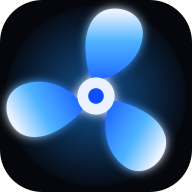
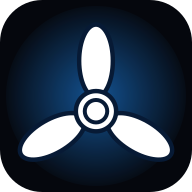
Логотип как у клуба: векторная копия оригинального «ОТ ✇ ВИНТА»
Буквы и пропеллер с овальными лопастями перестроены по замерам
оригинального логотипа; фавиконки и OG-картинка обновлены.

diff --git a/src/lib/logo.ts b/src/lib/logo.ts
@@ -1,0 +1,46 @@
+/**
+ * Логотип клуба «От винта» в векторе — повторяет оригинальный логотип клуба
+ * (images/logo.png старого сайта): широкие скруглённые буквы, белый трёхлопастной
+ * пропеллер между «ОТ» и «ВИНТА», слоган разреженным капсом.
+ * Сгенерировано по замерам оригинала. Высота букв = 40 единиц.
+ */
+
+/** Буквы «ОТ ВИНТА» (fill-rule: nonzero) */
+export const LOGO_LETTERS = [
+  'M12 0L42.2 0A12 12 0 0 1 54.2 12L54.2 28A12 12 0 0 1 42.2 40L12 40A12 12 0 0 1 0 28L0 12A12 12 0 0 1 12 0ZM14 8A4 4 0 0 0 10 12L10 28A4 4 0 0 0 14 32L40.2 32A4 4 0 0 0 44.2 28L44.2 12A4 4 0 0 0 40.2 8Z', // О
+  'M61.7 0L113.9 0A1.5 1.5 0 0 1 115.4 1.5L115.4 6.5A1.5 1.5 0 0 1 113.9 8L61.7 8A1.5 1.5 0 0 1 60.2 6.5L60.2 1.5A1.5 1.5 0 0 1 61.7 0ZM82.8 0L92.8 0L92.8 0L92.8 38.5A1.5 1.5 0 0 1 91.3 40L84.3 40A1.5 1.5 0 0 1 82.8 38.5L82.8 0L82.8 0Z', // Т1
+  'M196.1 0L204.6 0L204.6 0L204.6 40L204.6 40L196.1 40A1.5 1.5 0 0 1 194.6 38.5L194.6 1.5A1.5 1.5 0 0 1 196.1 0ZM196.1 0L235.8 0A10 10 0 0 1 245.8 10L245.8 13.1A10 10 0 0 1 235.8 23.1L194.6 23.1L194.6 23.1L194.6 1.5A1.5 1.5 0 0 1 196.1 0ZM194.6 17.1L235.8 17.1A10 10 0 0 1 245.8 27.1L245.8 30A10 10 0 0 1 235.8 40L196.1 40A1.5 1.5 0 0 1 194.6 38.5L194.6 17.1L194.6 17.1ZM207.1 8A2.5 2.5 0 0 0 204.6 10.5L204.6 14.6A2.5 2.5 0 0 0 207.1 17.1L233.4 17.1A2.5 2.5 0 0 0 235.9 14.6L235.9 10.5A2.5 2.5 0 0 0 233.4 8ZM207.1 23.1A2.5 2.5 0 0 0 204.6 25.6L204.6 29.6A2.5 2.5 0 0 0 207.1 32.1L233.4 32.1A2.5 2.5 0 0 0 235.9 29.6L235.9 25.6A2.5 2.5 0 0 0 233.4 23.1Z', // В
+  'M256.3 0L263.3 0A1.5 1.5 0 0 1 264.8 1.5L264.8 38.5A1.5 1.5 0 0 1 263.3 40L256.3 40A1.5 1.5 0 0 1 254.8 38.5L254.8 1.5A1.5 1.5 0 0 1 256.3 0ZM299.5 0L306.5 0A1.5 1.5 0 0 1 308 1.5L308 38.5A1.5 1.5 0 0 1 306.5 40L299.5 40A1.5 1.5 0 0 1 298 38.5L298 1.5A1.5 1.5 0 0 1 299.5 0ZM258.25 40L270.25 40L304.25 0L292.25 0Z', // И
+  'M318.5 0L325.5 0A1.5 1.5 0 0 1 327 1.5L327 38.5A1.5 1.5 0 0 1 325.5 40L318.5 40A1.5 1.5 0 0 1 317 38.5L317 1.5A1.5 1.5 0 0 1 318.5 0ZM361.7 0L368.7 0A1.5 1.5 0 0 1 370.2 1.5L370.2 38.5A1.5 1.5 0 0 1 368.7 40L361.7 40A1.5 1.5 0 0 1 360.2 38.5L360.2 1.5A1.5 1.5 0 0 1 361.7 0ZM326.5 16L360.7 16L360.7 16L360.7 24L360.7 24L326.5 24L326.5 24L326.5 16L326.5 16Z', // Н
+  'M377.7 0L429.9 0A1.5 1.5 0 0 1 431.4 1.5L431.4 6.5A1.5 1.5 0 0 1 429.9 8L377.7 8A1.5 1.5 0 0 1 376.2 6.5L376.2 1.5A1.5 1.5 0 0 1 377.7 0ZM398.8 0L408.8 0L408.8 0L408.8 38.5A1.5 1.5 0 0 1 407.3 40L400.3 40A1.5 1.5 0 0 1 398.8 38.5L398.8 0L398.8 0Z', // Т2
+  'M440.4 0L476.6 0A10 10 0 0 1 486.6 10L486.6 8L486.6 8L436.4 8L436.4 8L436.4 4A4 4 0 0 1 440.4 0ZM476.6 0L476.6 0A10 10 0 0 1 486.6 10L486.6 38.5A1.5 1.5 0 0 1 485.1 40L476.6 40L476.6 40L476.6 0L476.6 0ZM445.4 17.1L486.6 17.1L486.6 17.1L486.6 38.5A1.5 1.5 0 0 1 485.1 40L445.4 40A9 9 0 0 1 436.4 31L436.4 26.1A9 9 0 0 1 445.4 17.1ZM448.9 23.1A2.5 2.5 0 0 0 446.4 25.6L446.4 29.6A2.5 2.5 0 0 0 448.9 32.1L474.1 32.1A2.5 2.5 0 0 0 476.6 29.6L476.6 25.6A2.5 2.5 0 0 0 474.1 23.1Z', // а
+];
+
+/** Ширина вордмарка в единицах */
+export const LOGO_WIDTH = 486.6;
+
+/** Пропеллер: центр втулки, вылет лопасти, полуоси овала лопасти, радиусы колец втулки */
+export const PROP = { cx: 146.4, cy: 19.5, reach: 37.0, a: 15.5, b: 7.2, hubR: 8.6, hubR2: 4.8 };
+
+/** Слоган «НАВСТРЕЧУ ПРИКЛЮЧЕНИЯМ» — контуры букв (Unbounded 700), верх 53.5, высота 9.6 */
+export const LOGO_SLOGAN = 'M61.26480000000002 53.5H63.91440000000002V63.1H61.26480000000002ZM68.81680000000001 53.5H71.47920000000002V63.1H68.81680000000001ZM62.74960000000002 57.0456H69.91760000000002V59.400800000000004H62.74960000000002ZM80.516 61.2568V59.1192H87.13360000000002V61.2568ZM85.62320000000001 53.5 89.98800000000001 63.1H87.15920000000001L83.4984 54.626400000000004H84.2664L80.59280000000001 63.1H77.76400000000001L82.12880000000001 53.5ZM102.77520000000001 58.4024 102.99280000000002 57.9032Q104.10640000000002 57.9288 104.82960000000003 58.2424Q105.55280000000002 58.556000000000004 105.91120000000001 59.11280000000001Q106.26960000000001 59.6696 106.26960000000001 60.3992Q106.26960000000001 61.18 105.91120000000001 61.788Q105.55280000000002 62.396 104.84240000000003 62.748000000000005Q104.13200000000002 63.1 103.06960000000002 63.1H95.97840000000002L96.72080000000001 58.172000000000004L95.97840000000002 53.5H102.81360000000002Q104.14480000000002 53.5 104.8872 54.1208Q105.62960000000001 54.741600000000005 105.62960000000001 55.842400000000005Q105.62960000000001 56.444 105.34800000000001 56.9944Q105.06640000000002 57.5448 104.44560000000001 57.9224Q103.82480000000001 58.300000000000004 102.77520000000001 58.4024ZM98.60240000000002 62.4856 97.57840000000002 61.244H102.35280000000002Q102.92880000000002 61.244 103.24880000000002 60.9624Q103.56880000000001 60.680800000000005 103.56880000000001 60.1816Q103.56880000000001 59.6824 103.22320000000002 59.381600000000006Q102.87760000000002 59.0808 102.19920000000002 59.0808H98.25680000000001V57.263200000000005H101.84080000000002Q102.30160000000002 57.263200000000005 102.61520000000002 56.988Q102.92880000000002 56.7128 102.92880000000002 56.239200000000004Q102.92880000000002 55.8552 102.66000000000003 55.6056Q102.39120000000001 55.356 101.89200000000001 55.356H97.59120000000001L98.60240000000002 54.1144L99.25520000000002 58.172000000000004ZM123.61360000000002 59.0808Q123.4728 60.348 122.7432 61.3016Q122.01360000000001 62.2552 120.82960000000001 62.78Q119.64560000000002 63.3048 118.10960000000001 63.3048Q116.43280000000001 63.3048 115.17840000000001 62.6776Q113.924 62.0504 113.22640000000001 60.92400000000001Q112.52880000000002 59.7976 112.52880000000002 58.300000000000004Q112.52880000000002 56.802400000000006 113.22640000000001 55.676Q113.924 54.5496 115.17840000000001 53.922399999999996Q116.43280000000001 53.2952 118.10960000000001 53.2952Q119.64560000000002 53.2952 120.82960000000001 53.82000000000001Q122.01360000000001 54.344800000000006 122.7432 55.2984Q123.4728 56.252 123.61360000000002 57.519200000000005H120.95120000000001Q120.82320000000001 56.9048 120.45200000000001 56.476Q120.08080000000001 56.047200000000004 119.4856 55.8168Q118.89040000000001 55.586400000000005 118.10960000000001 55.586400000000005Q117.21360000000001 55.586400000000005 116.56080000000001 55.912800000000004Q115.90800000000002 56.239200000000004 115.56240000000001 56.8472Q115.2168 57.455200000000005 115.2168 58.300000000000004Q115.2168 59.144800000000004 115.56240000000001 59.75280000000001Q115.90800000000002 60.360800000000005 116.56080000000001 60.687200000000004Q117.21360000000001 61.013600000000004 118.10960000000001 61.013600000000004Q118.89040000000001 61.013600000000004 119.4856 60.79600000000001Q120.08080000000001 60.5784 120.45200000000001 60.1432Q120.82320000000001 59.708 120.95120000000001 59.0808ZM133.2904 54.6648H135.9528V63.1H133.2904ZM129.6296 53.5H139.61360000000002V55.8552H129.6296ZM151.5176 53.5Q152.7208 53.5 153.5976 53.9096Q154.4744 54.3192 154.9352 55.068Q155.396 55.8168 155.396 56.815200000000004Q155.396 57.8008 154.9352 58.5496Q154.4744 59.2984 153.5976 59.708Q152.7208 60.1176 151.5176 60.1176H147.3576V57.9928H151.3512Q151.9912 57.9928 152.3496 57.6792Q152.708 57.3656 152.708 56.815200000000004Q152.708 56.252 152.3496 55.9384Q151.9912 55.6248 151.3512 55.6248H147.588L148.7784 54.396V63.1H146.12879999999998V53.5ZM170.1288 57.34V59.260000000000005H163.10160000000002V57.34ZM164.90640000000002 58.300000000000004 164.27920000000003 62.1528 163.204 60.949600000000004H170.55120000000002V63.1H161.6296L162.35920000000002 58.300000000000004L161.6296 53.5H170.48720000000003V55.650400000000005H163.204L164.27920000000003 54.4472ZM181.316 60.2072Q179.268 60.2072 178.1864 59.138400000000004Q177.1048 58.0696 177.1048 56.047200000000004V53.5H179.7544V55.8296Q179.7544 56.8408 180.3048 57.3528Q180.85520000000002 57.8648 181.95600000000002 57.8648Q182.596 57.8648 183.3 57.717600000000004Q184.00400000000002 57.5704 184.70800000000003 57.2888L184.8616 59.4136Q184.0936 59.7976 183.1848 60.0024Q182.276 60.2072 181.316 60.2072ZM184.3624 63.1V53.5H187.02480000000003V63.1ZM196.4456 63.1 198.17360000000002 60.092H198.21200000000002L201.96240000000003 53.5H204.84240000000003L199.3256 63.1ZM198.13520000000003 61.8072 193.33520000000001 53.5H196.26640000000003L200.01680000000002 60.028ZM229.828 53.5V63.1H227.1784V54.652L228.3688 55.8552H221.124L222.3144 54.652V63.1H219.66479999999999V53.5ZM242.38479999999998 53.5Q243.588 53.5 244.4648 53.9096Q245.3416 54.3192 245.80239999999998 55.068Q246.26319999999998 55.8168 246.26319999999998 56.815200000000004Q246.26319999999998 57.8008 245.80239999999998 58.5496Q245.3416 59.2984 244.4648 59.708Q243.588 60.1176 242.38479999999998 60.1176H238.2248V57.9928H242.2184Q242.8584 57.9928 243.21679999999998 57.6792Q243.5752 57.3656 243.5752 56.815200000000004Q243.5752 56.252 243.21679999999998 55.9384Q242.8584 55.6248 242.2184 55.6248H238.4552L239.6456 54.396V63.1H236.99599999999998V53.5ZM252.7912 63.1V53.5H255.40240000000003V61.7048L254.67280000000002 61.5384L260.1128 53.5H263.58160000000004V63.1H260.9576V54.741600000000005L261.7 54.908L256.1576 63.1ZM270.74960000000004 63.1V53.5H273.38640000000004V60.988L272.68240000000003 60.4376L278.1224 53.5H280.92560000000003L273.14320000000004 63.1ZM275.33200000000005 58.5176 277.2776 56.9048 281.0536 63.1H278.04560000000004ZM288.86159999999995 53.5H298.2824V63.1H295.61999999999995V54.652L296.8232 55.8552H290.34639999999996L291.46 54.972Q291.56239999999997 55.8168 291.60079999999994 56.5912Q291.63919999999996 57.3656 291.63919999999996 58.0568Q291.63919999999996 59.9 291.30639999999994 61.0584Q290.9736 62.2168 290.2568 62.754400000000004Q289.53999999999996 63.292 288.40079999999995 63.292Q287.9016 63.292 287.4216 63.1896Q286.9416 63.0872 286.54479999999995 62.882400000000004V60.680800000000005Q287.10799999999995 60.8984 287.5816 60.8984Q288.4136 60.8984 288.7784 60.14320000000001Q289.1432 59.388000000000005 289.1432 57.6728Q289.1432 56.8408 289.0728 55.804Q289.00239999999997 54.7672 288.86159999999995 53.5ZM314.9352 63.3048Q313.2456 63.3048 311.9784 62.6776Q310.7112 62.0504 310.0136 60.92400000000001Q309.31600000000003 59.7976 309.31600000000003 58.300000000000004Q309.31600000000003 56.802400000000006 310.0136 55.676Q310.7112 54.5496 311.9784 53.922399999999996Q313.2456 53.2952 314.9352 53.2952Q316.6376 53.2952 317.9048 53.922399999999996Q319.172 54.5496 319.8824 55.676Q320.5928 56.802400000000006 320.5928 58.300000000000004Q320.5928 59.7976 319.8824 60.92400000000001Q319.172 62.0504 317.9048 62.6776Q316.6376 63.3048 314.9352 63.3048ZM305.43760000000003 63.1V53.5H308.0872V63.1ZM306.92240000000004 59.400800000000004V57.0456H310.6856V59.400800000000004ZM314.9352 60.936800000000005Q315.8568 60.936800000000005 316.5224 60.616800000000005Q317.188 60.296800000000005 317.5464 59.7016Q317.9048 59.1064 317.9048 58.300000000000004Q317.9048 57.4808 317.5464 56.892Q317.188 56.303200000000004 316.5224 55.983200000000004Q315.8568 55.6632 314.9352 55.6632Q314.0264 55.6632 313.36080000000004 55.983200000000004Q312.6952 56.303200000000004 312.33680000000004 56.892Q311.9784 57.4808 311.9784 58.300000000000004Q311.9784 59.1064 312.33680000000004 59.7016Q312.6952 60.296800000000005 313.36080000000004 60.616800000000005Q314.0264 60.936800000000005 314.9352 60.936800000000005ZM331.19120000000004 60.2072Q329.14320000000004 60.2072 328.0616 59.138400000000004Q326.98 58.0696 326.98 56.047200000000004V53.5H329.62960000000004V55.8296Q329.62960000000004 56.8408 330.18000000000006 57.3528Q330.73040000000003 57.8648 331.8312 57.8648Q332.4712 57.8648 333.1752 57.717600000000004Q333.8792 57.5704 334.58320000000003 57.2888L334.7368 59.4136Q333.96880000000004 59.7976 333.06000000000006 60.0024Q332.1512 60.2072 331.19120000000004 60.2072ZM334.23760000000004 63.1V53.5H336.90000000000003V63.1ZM352.26 57.34V59.260000000000005H345.2328V57.34ZM347.0376 58.300000000000004 346.4104 62.1528 345.3352 60.949600000000004H352.6824V63.1H343.7608L344.4904 58.300000000000004L343.7608 53.5H352.6184V55.650400000000005H345.3352L346.4104 54.4472ZM359.5944 53.5H362.24399999999997V63.1H359.5944ZM367.14639999999997 53.5H369.8088V63.1H367.14639999999997ZM361.0792 57.0456H368.2472V59.400800000000004H361.0792ZM376.9768 63.1V53.5H379.588V61.7048L378.8584 61.5384L384.2984 53.5H387.7672V63.1H385.14320000000004V54.741600000000005L385.8856 54.908L380.3432 63.1ZM402.308 57.7624V59.644000000000005H398.3016L398.2888 59.592800000000004Q397.188 59.592800000000004 396.3624 59.2216Q395.53679999999997 58.8504 395.0824 58.172Q394.628 57.4936 394.628 56.5848Q394.628 55.650400000000005 395.0824 54.9656Q395.53679999999997 54.2808 396.3624 53.8904Q397.188 53.5 398.2888 53.5H404.1512V63.1H401.48879999999997V54.204L402.6792 55.394400000000005H398.6728Q398.02 55.394400000000005 397.6552 55.708Q397.2904 56.0216 397.2904 56.5848Q397.2904 57.135200000000005 397.6552 57.448800000000006Q398.02 57.7624 398.6728 57.7624ZM400.7208 58.6072 397.444 63.1H394.372L397.7512 58.6072ZM425.3352 53.5V63.1H422.81359999999995V54.4472L423.3768 54.5112L419.66479999999996 63.1H416.97679999999997L413.25199999999995 54.5368L413.828 54.47280000000001V63.1H411.3064V53.5H415.4024L418.8456 61.7432H417.8216L421.2392 53.5Z';
+
+/** Границы по вертикали */
+export const LOGO_TOP = -19.5;
+export const LOGO_BOTTOM_COMPACT = 46.48;
+export const LOGO_BOTTOM_FULL = 65.6;
+
+/** Лопасть: овал, ось направлена от центра втулки (угол 0 — вверх) */
+export const blade = (angle: number, p = PROP): { cx: number; cy: number; rx: number; ry: number; rotate: string } => {
+  const d = p.reach - p.a;
+  const rad = (angle * Math.PI) / 180;
+  return {
+    cx: p.cx + d * Math.sin(rad),
+    cy: p.cy - d * Math.cos(rad),
+    rx: p.b,
+    ry: p.a,
+    rotate: `rotate(${angle} ${p.cx + d * Math.sin(rad)} ${p.cy - d * Math.cos(rad)})`,
+  };
+};
+
+export const BLADE_ANGLES = [0, 120, 240];

diff --git a/src/lib/logo-svg.ts b/src/lib/logo-svg.ts
@@ -1,0 +1,89 @@
+/**
+ * Сборка SVG логотипа «От винта» (по оригинальному логотипу клуба).
+ * Один источник для шапки, футера, фавиконок и OG-картинки (scripts/make-assets.mjs).
+ */
+import {
+  BLADE_ANGLES,
+  LOGO_BOTTOM_COMPACT,
+  LOGO_BOTTOM_FULL,
+  LOGO_LETTERS,
+  LOGO_SLOGAN,
+  LOGO_TOP,
+  LOGO_WIDTH,
+  PROP,
+  blade,
+} from './logo.ts';
+
+export type LogoVariant = 'full' | 'compact';
+
+const OUTLINE = '#04152E';
+const PROP_OUTLINE = '#071A35';
+
+/** Пропеллер: три овальные лопасти + втулка из колец (как в оригинале) */
+export const propellerMarkup = (opts: { cx?: number; cy?: number; scale?: number; spin?: boolean } = {}): string => {
+  const p = { ...PROP, ...(opts.cx !== undefined ? { cx: opts.cx } : {}), ...(opts.cy !== undefined ? { cy: opts.cy } : {}) };
+  const blades = BLADE_ANGLES.map((a) => {
+    const b = blade(a, p);
+    return `<ellipse cx="${b.cx.toFixed(2)}" cy="${b.cy.toFixed(2)}" rx="${b.rx}" ry="${b.ry}" transform="${b.rotate}"/>`;
+  }).join('');
+  const style = opts.spin ? ` class="spin-on-hover" style="transform-box:view-box;transform-origin:${p.cx}px ${p.cy}px"` : '';
+  return `<g${style}><g fill="#FFFFFF" stroke="${PROP_OUTLINE}" stroke-width="1.9">${blades}<circle cx="${p.cx}" cy="${p.cy}" r="${p.hubR}"/><circle cx="${p.cx}" cy="${p.cy}" r="${p.hubR2}" stroke-width="1.7"/></g></g>`;
+};
+
+export interface LogoOptions {
+  variant?: LogoVariant;
+  /** уникальный префикс id (если логотипов на странице несколько) */
+  uid?: string;
+  className?: string;
+  /** подпись для скринридеров; без неё логотип декоративный */
+  title?: string;
+  spin?: boolean;
+  width?: number;
+}
+
+export const logoViewBox = (variant: LogoVariant = 'compact'): [number, number, number, number] => {
+  const pad = 7;
+  const bottom = variant === 'full' ? LOGO_BOTTOM_FULL : LOGO_BOTTOM_COMPACT;
+  return [-pad, LOGO_TOP - pad, LOGO_WIDTH + pad * 2, bottom - LOGO_TOP + pad * 2];
+};
+
+export const logoSvg = ({ variant = 'compact', uid = 'logo', className, title, spin = true, width }: LogoOptions = {}): string => {
+  const [x, y, w, h] = logoViewBox(variant);
+  const g = `${uid}-g`;
+  const fl = `${uid}-f`;
+  const fp = `${uid}-p`;
+  const a11y = title ? `role="img" aria-label="${title}"` : 'aria-hidden="true" focusable="false"';
+  const size = width ? ` width="${width}" height="${((width * h) / w).toFixed(1)}"` : '';
+  return `<svg xmlns="http://www.w3.org/2000/svg" viewBox="${x} ${y.toFixed(2)} ${w} ${h.toFixed(2)}"${size}${className ? ` class="${className}"` : ''} ${a11y}>${title ? `<title>${title}</title>` : ''}
+<defs>
+<linearGradient id="${g}" x1="0" y1="0" x2="0" y2="40" gradientUnits="userSpaceOnUse"><stop offset="0" stop-color="#14A6F0"/><stop offset=".55" stop-color="#16BDF6"/><stop offset="1" stop-color="#46DDFF"/></linearGradient>
+<filter id="${fl}" x="-4%" y="-40%" width="108%" height="180%" color-interpolation-filters="sRGB">
+<feMorphology in="SourceAlpha" operator="dilate" radius="1.5" result="d"/>
+<feFlood flood-color="${OUTLINE}"/><feComposite in2="d" operator="in" result="o"/>
+<feGaussianBlur in="d" stdDeviation="4.5" result="b"/>
+<feFlood flood-color="#1E90FF" flood-opacity=".9"/><feComposite in2="b" operator="in" result="glow"/>
+<feMerge><feMergeNode in="glow"/><feMergeNode in="o"/><feMergeNode in="SourceGraphic"/></feMerge>
+</filter>
+<filter id="${fp}" x="-30%" y="-30%" width="160%" height="160%" color-interpolation-filters="sRGB">
+<feGaussianBlur in="SourceAlpha" stdDeviation="3" result="b"/>
+<feFlood flood-color="#4FB3FF" flood-opacity=".75"/><feComposite in2="b" operator="in" result="glow"/>
+<feMerge><feMergeNode in="glow"/><feMergeNode in="SourceGraphic"/></feMerge>
+</filter>
+</defs>
+<path filter="url(#${fl})" fill="url(#${g})" d="${LOGO_LETTERS.join('')}"/>
+<g filter="url(#${fp})">${propellerMarkup({ spin })}</g>
+${variant === 'full' ? `<path fill="#FFFFFF" d="${LOGO_SLOGAN}"/>` : ''}
+</svg>`;
+};
+
+/** Квадратная иконка: пропеллер на тёмном фоне (фавиконки, PWA) */
+export const markSvg = ({ size = 512, background = '#05070D' as string | null, rounded = 0.22, scale = 1 } = {}): string => {
+  const R = PROP.reach + 4;
+  const s = (32 / R) * scale;
+  const prop = propellerMarkup({ cx: 0, cy: 0 });
+  return `<svg xmlns="http://www.w3.org/2000/svg" width="${size}" height="${size}" viewBox="0 0 64 64">
+<defs><radialGradient id="mg" cx="32" cy="32" r="32" gradientUnits="userSpaceOnUse"><stop offset="0" stop-color="#1E90FF" stop-opacity=".55"/><stop offset="1" stop-color="#1E90FF" stop-opacity="0"/></radialGradient></defs>
+${background ? `<rect width="64" height="64" rx="${64 * rounded}" fill="${background}"/><circle cx="32" cy="32" r="30" fill="url(#mg)"/>` : ''}
+<g transform="translate(32 ${(32 + 6.5 * s).toFixed(2)}) scale(${s.toFixed(4)})">${prop}</g>
+</svg>`;
+};
